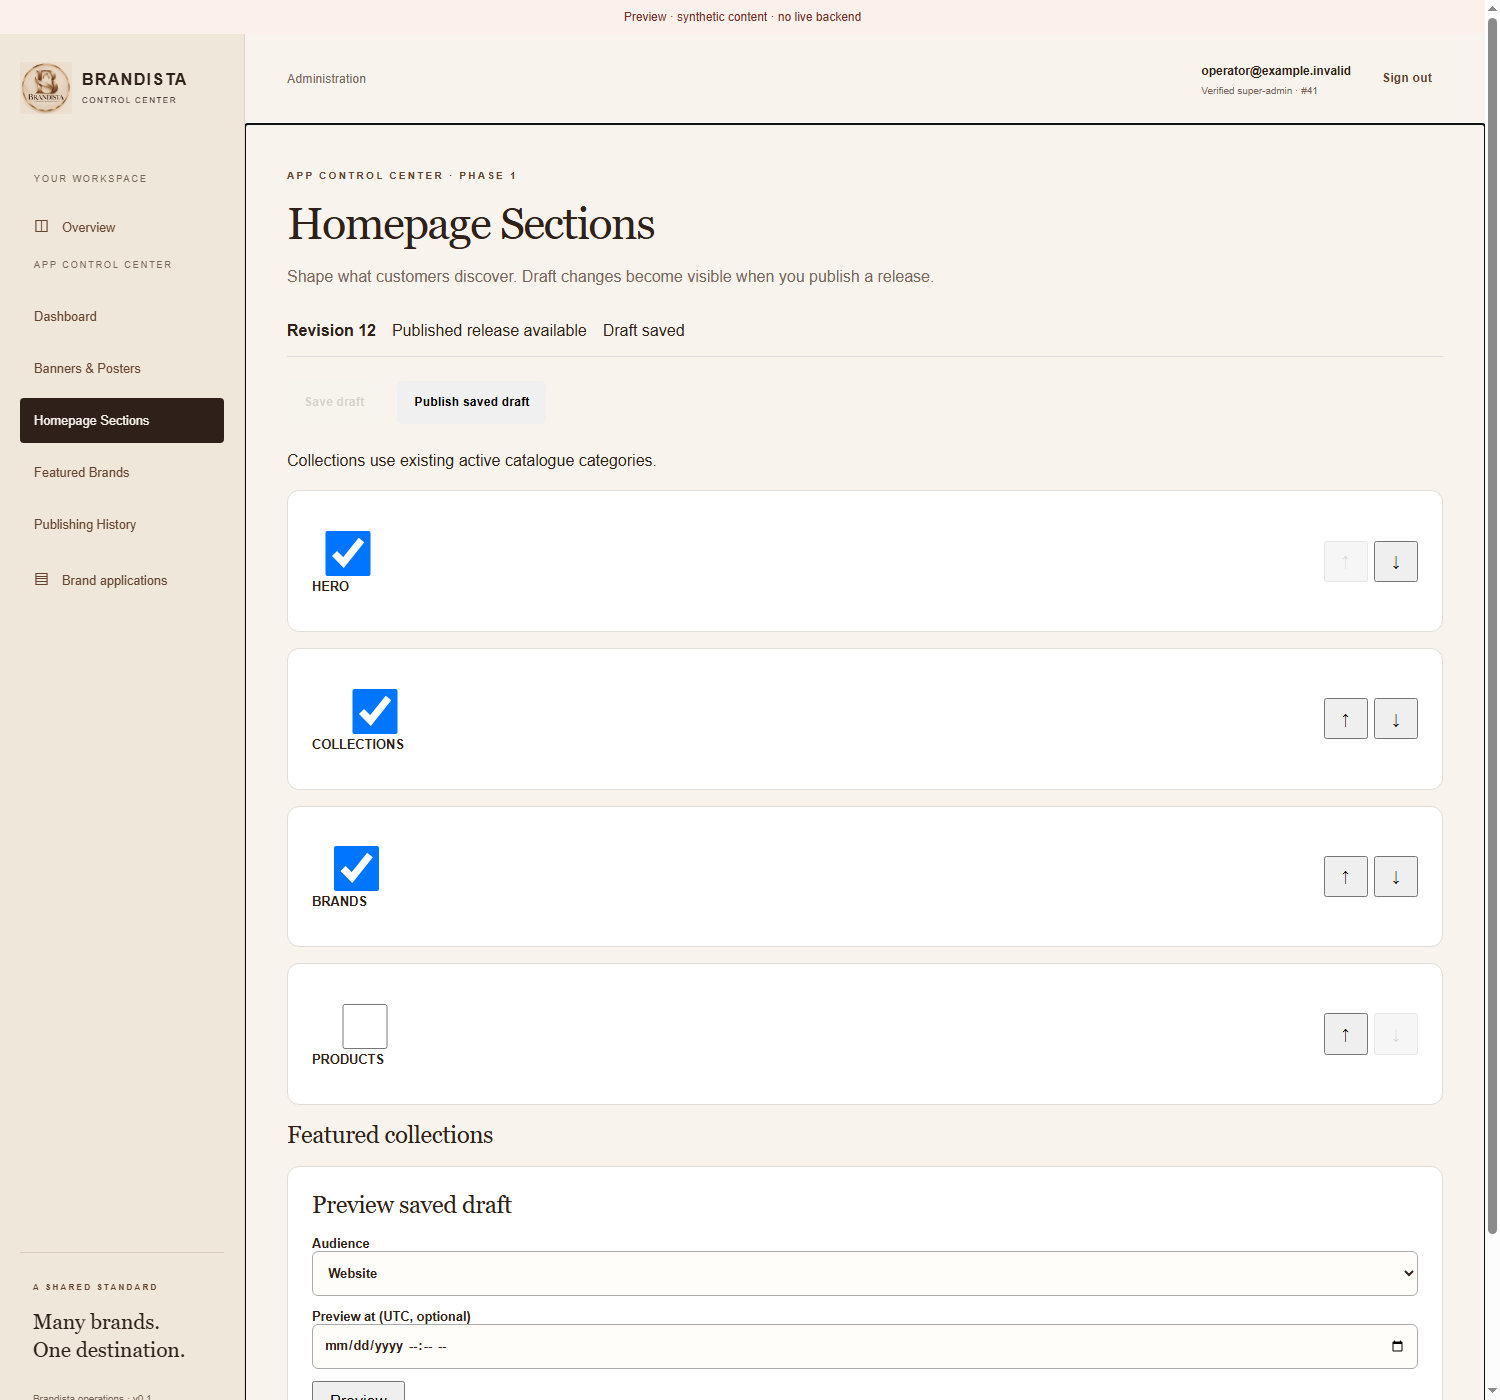
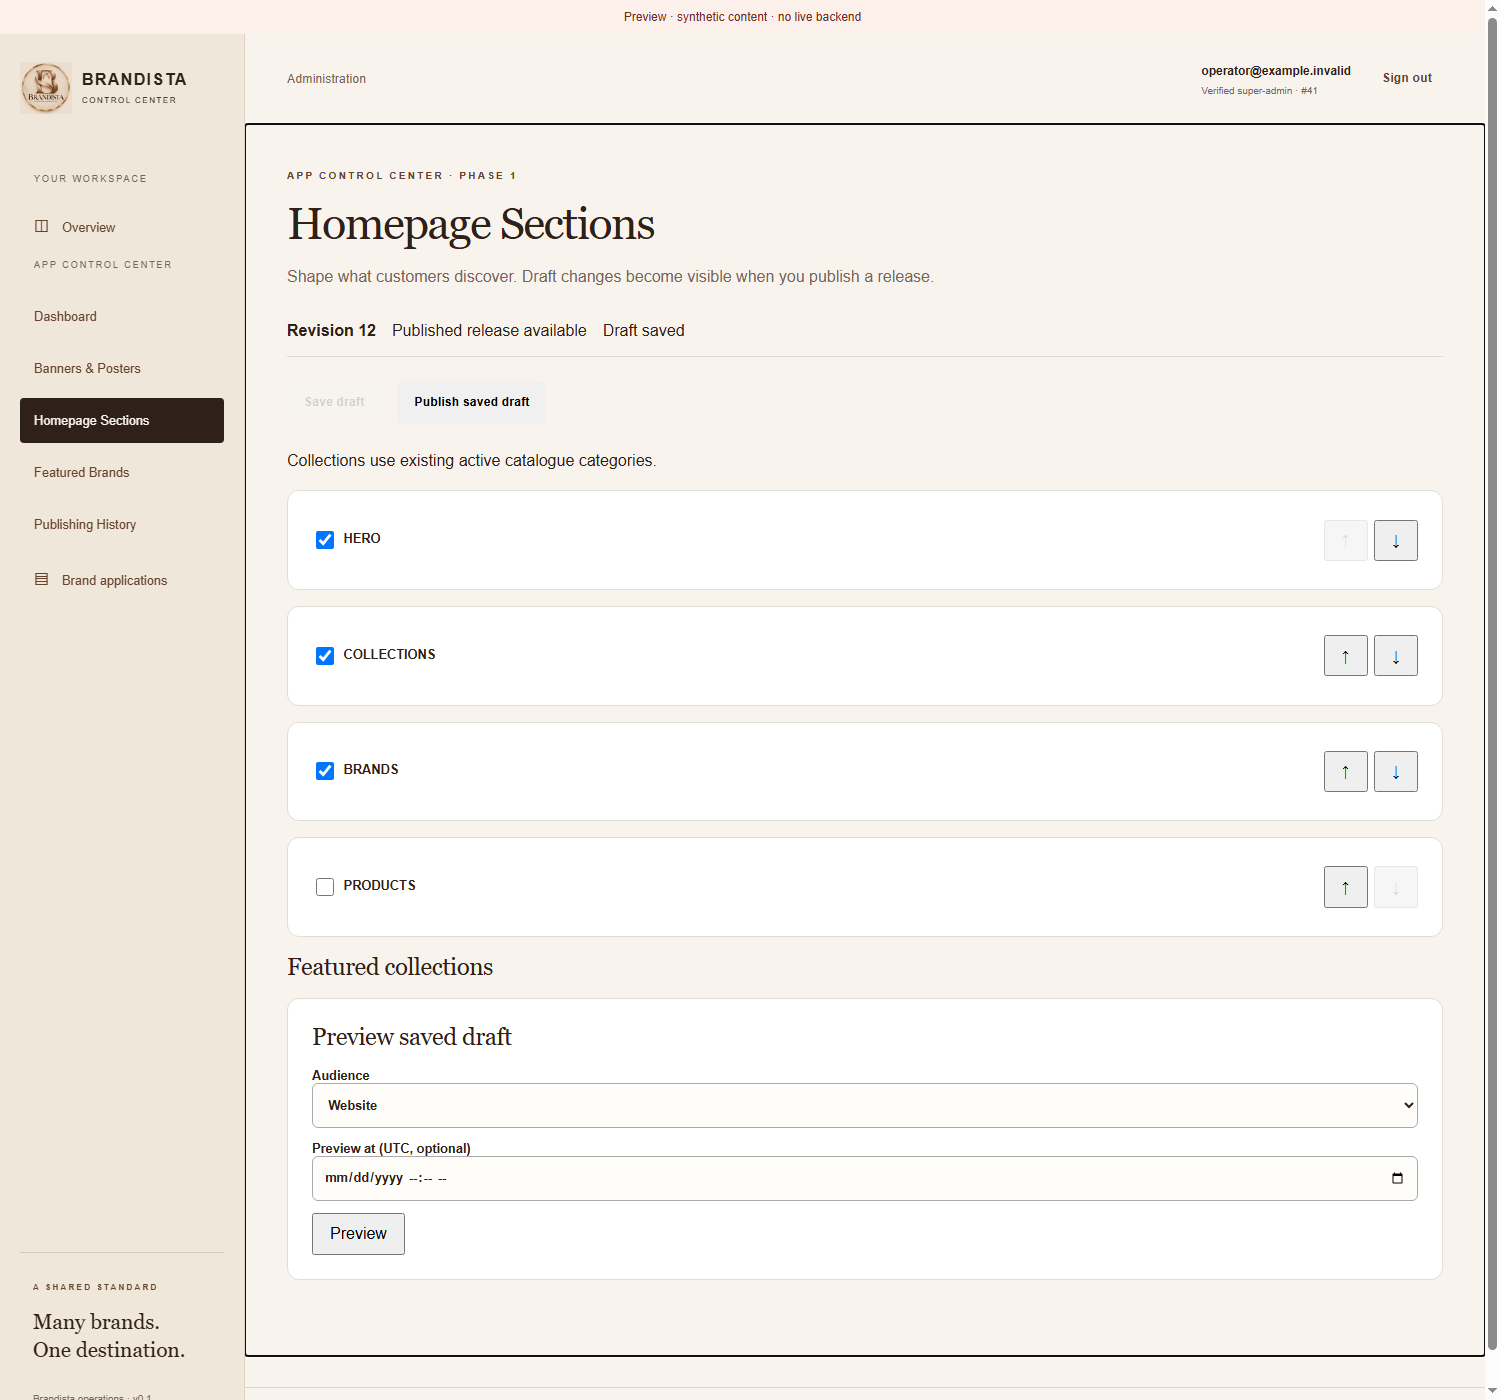
Keep content editor checkboxes compact

diff --git a/src/content/content.css b/src/content/content.css
@@ -45,6 +45,11 @@
 }
 .cc input[type='checkbox'] {
   margin-right: 0.6rem;
+  display: inline-block;
+  width: 18px;
+  height: 18px;
+  min-height: 0;
+  vertical-align: middle;
 }
 .cc-image {
   max-width: 100%;
